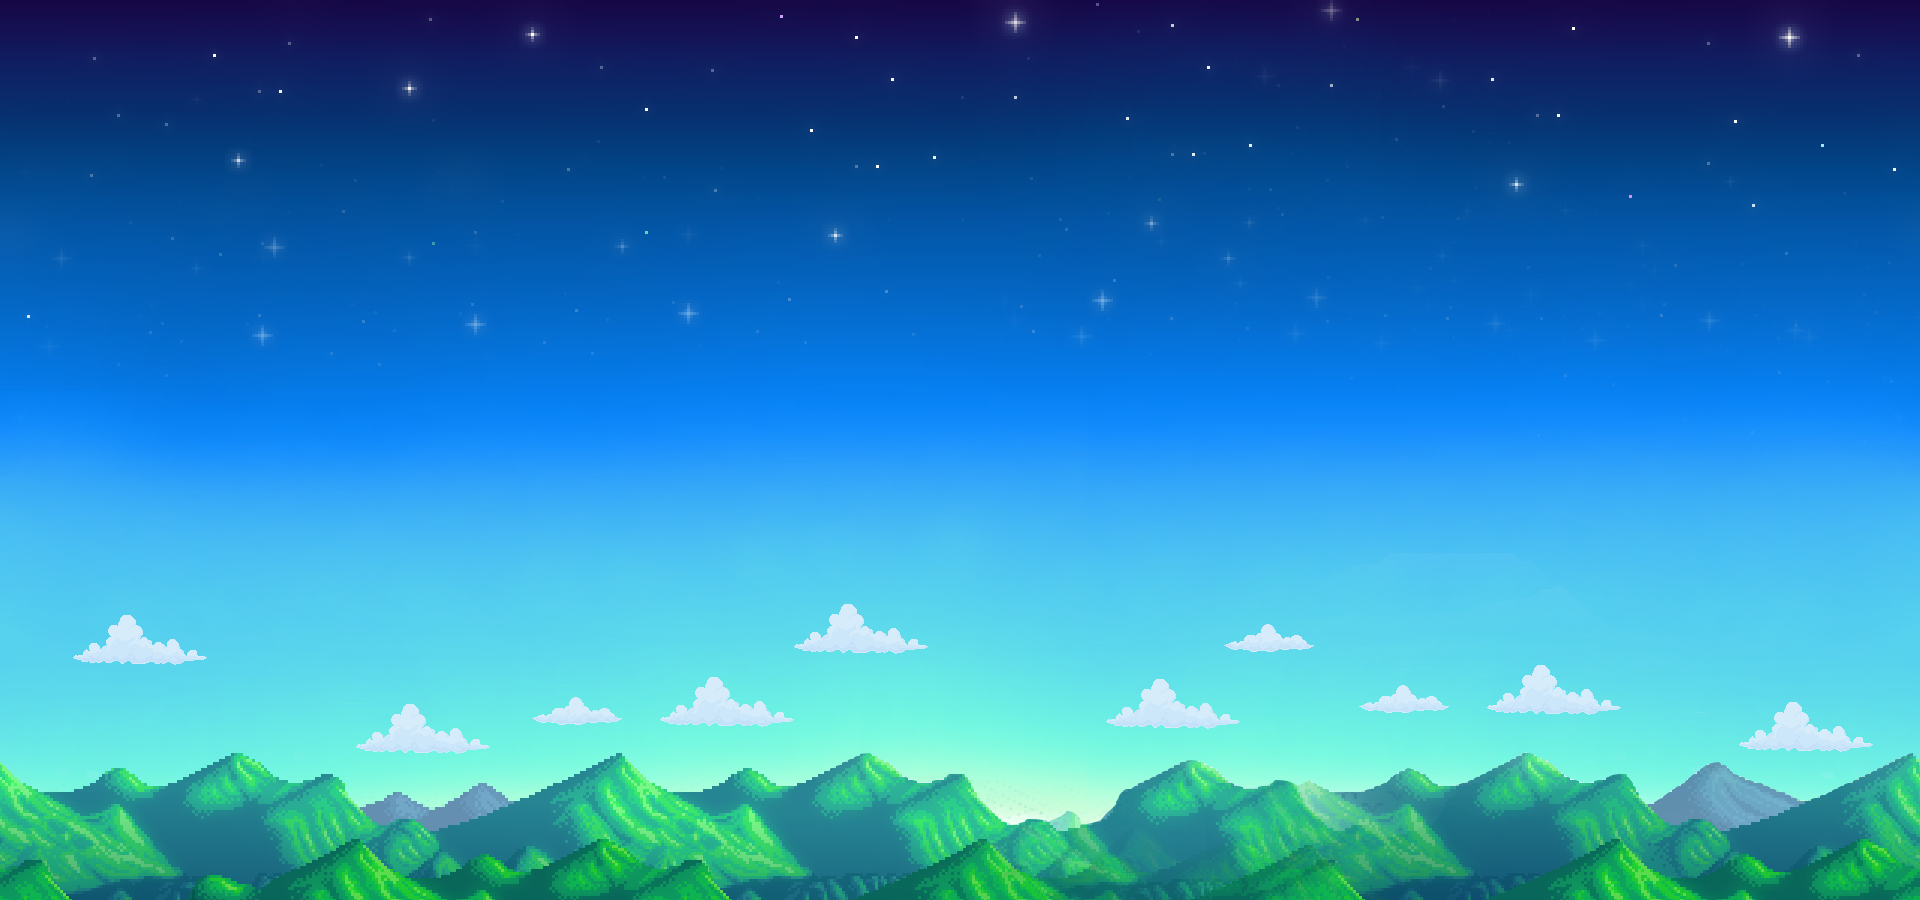
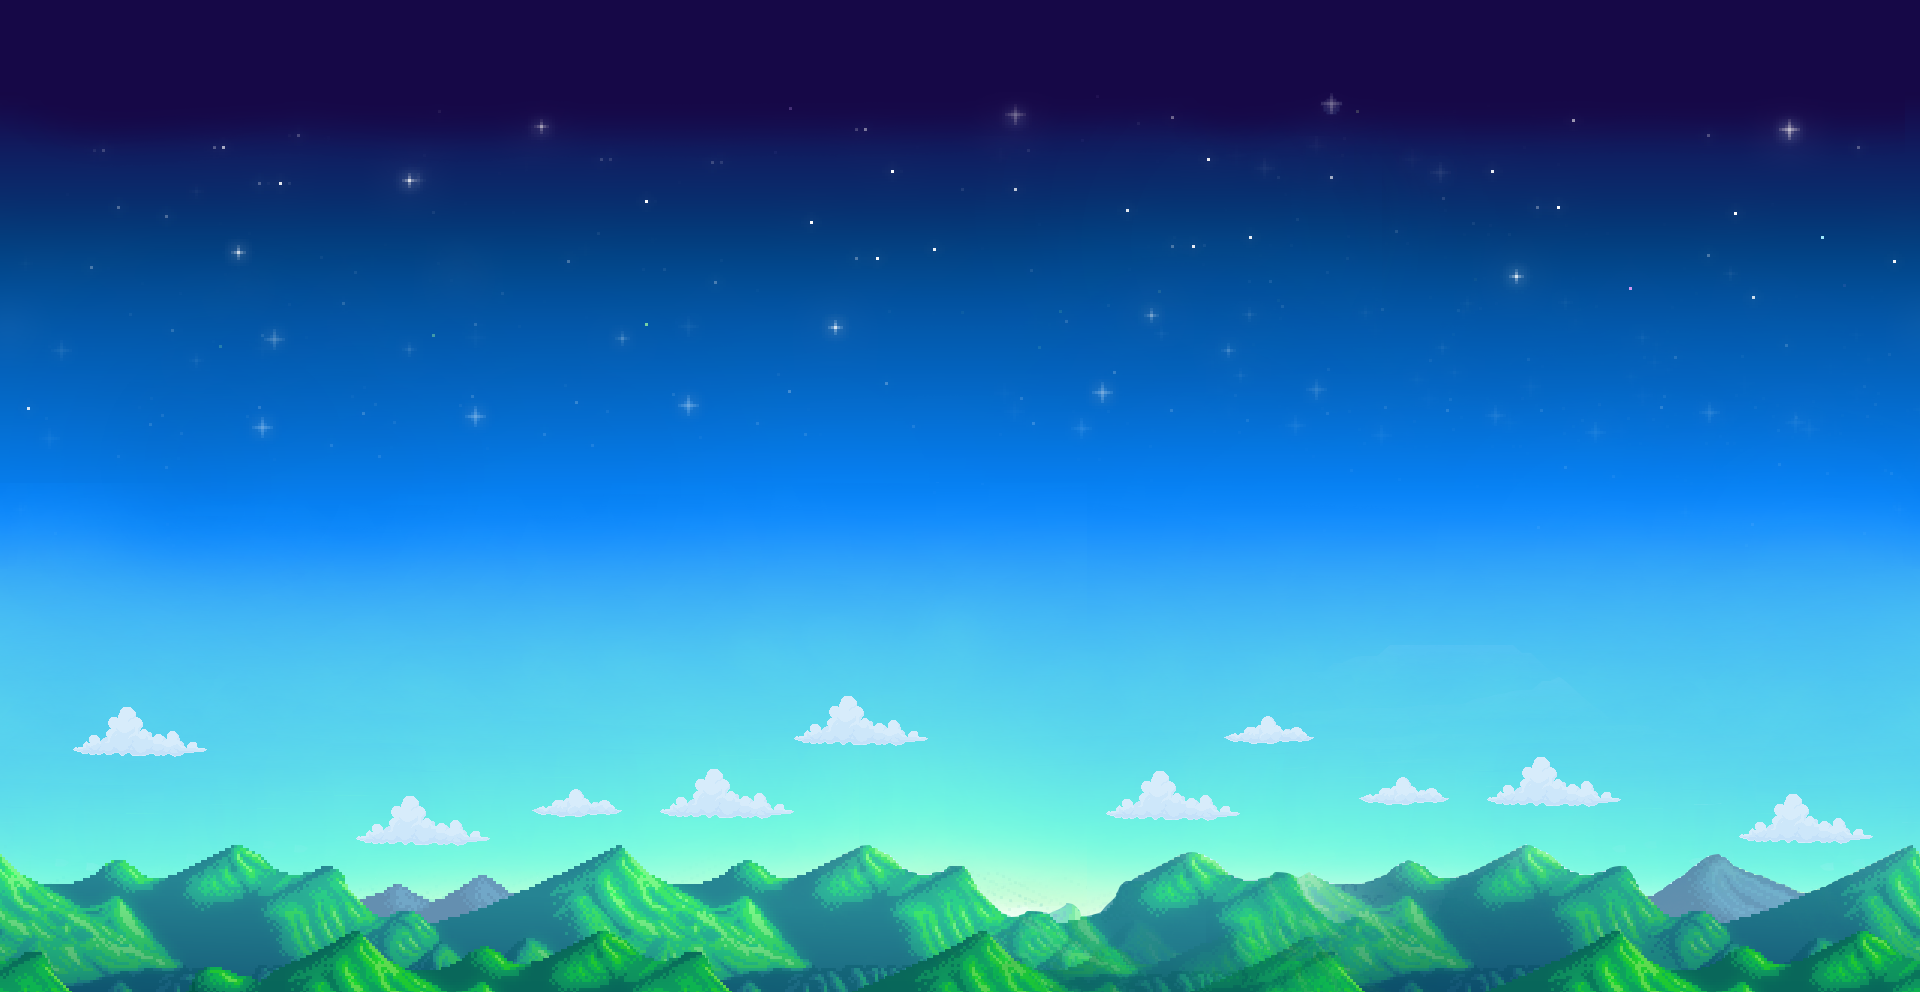
album started with issues that i'll fix in a few days

diff --git a/pages/sections/Hero/_hero.scss b/pages/sections/Hero/_hero.scss
@@ -1,6 +1,6 @@
 $backWidth: 512px; $backHeight: 432px;
 $bushesWidth: 508px; $bushesHeight: 79px;
-$groundWidth: 68px; $groundHeight: 22px;
+$groundWidth: 218px; $groundHeight: 22px;
 
 #cards {
     display: flex;
@@ -12,9 +12,9 @@ $groundWidth: 68px; $groundHeight: 22px;
     height: 87.5vh;
     background-image:
     url('https://github.com/Kageetai/mario-bfackground-parallax/blob/master/img/mario.gif?raw='),
-    url('../Hero/background/front0.png'),
-    url('../Hero/background/Country.png'),
-    url('../Hero/background/background.png');
+    url('../Hero/background/front1.png'),
+    url('../Hero/background/Country0.png'),
+    url('../Hero/background/background0.png');
     background-color: #000;
     background-repeat:
     no-repeat,
@@ -26,7 +26,7 @@ $groundWidth: 68px; $groundHeight: 22px;
     left 0px bottom 0px,
     left 0px bottom $groundHeight,
     left 0px bottom 0px;
-    animation: back 30s infinite linear;
+    animation: back 120s infinite linear;
     padding: 0px 9% 0px;
 
     @keyframes back {
@@ -56,12 +56,11 @@ $groundWidth: 68px; $groundHeight: 22px;
         width: 100vh;
     }
 
-
     &__top {
         display: flex;
 		justify-content: space-between;
 		align-items: center;
-        padding-top: 10%;
+        padding-top: 15%;
 
     &__nof {
         display: flex;
@@ -69,10 +68,80 @@ $groundWidth: 68px; $groundHeight: 22px;
     }
 
     &__album {
+        width: 800px;
+        height: 800px;
+        background-image: url('../Hero/background/book.png');
         position: absolute;
+        background-size: 100% 100%;
         top: 50%;
         left: 50%;
-        transform: translate(-50%, -50%)
+        transform: translate(-50%, -50%);
+        font-size: 20px;
+        text-align: center;
+        
+        &__page {
+            display: flex;
+            justify-content: center;
+            align-items: center;
+            width: 300px;
+            height: 600px;
+            background-size: 100% 100%;
+        }
+        &__page0 {
+            display: flex;
+            justify-content: center;
+            align-items: center;
+            background-image: url('../Hero/background/page.png');
+            width: 500px;
+            height: 600px;
+            background-size: 100% 100%;
+            top: 50%;
+            left: 50%;
+        }
+        &__page1 {
+            display: flex;
+            justify-content: center;
+            align-items: center;
+            background-image: url('../Hero/background/page.png');
+            width: 500px;
+            height: 600px;
+            background-size: 100% 100%;
+            top: 50%;
+            left: 50%;
+        }
+        &__page2 {
+            display: flex;
+            justify-content: center;
+            align-items: center;
+            background-image: url('../Hero/background/page.png');
+            width: 500px;
+            height: 600px;
+            background-size: 100% 100%;
+            top: 50%;
+            left: 50%;
+        }
+        &__page3 {
+            display: flex;
+            justify-content: center;
+            align-items: center;
+            background-image: url('../Hero/background/page.png');
+            width: 500px;
+            height: 600px;
+            background-size: 100% 100%;
+            top: 50%;
+            left: 50%;
+        }
+        &__page4 {
+            display: flex;
+            justify-content: center;
+            align-items: center;
+            background-image: url('../Hero/background/page.png');
+            width: 500px;
+            height: 600px;
+            background-size: 100% 100%;
+            top: 50%;
+            left: 50%;
+        }
     }
 
         .swiper {

diff --git a/pages/sections/Hero/Hero.jsx b/pages/sections/Hero/Hero.jsx
@@ -1,5 +1,7 @@
 import React from 'react'
 import Image from 'next/image'
+import HTMLFlipBook from 'react-pageflip'
+import Link from 'next/link'
 
 // Import Swiper React components
 import { Swiper, SwiperSlide } from 'swiper/react'
@@ -25,14 +27,50 @@ function Hero () {
             height={380}
           />
         </div>
-        <div className='hero__top__album'>
-          <Image
-            src='/../public/Book/book.png'
-            alt=''
-            width={800}
-            height={800}
-          />
-        </div>
+        <HTMLFlipBook width={500} height={500} className='hero__top__album'>
+          <div className='hero__top__album__page'>
+            <h2>BIENVENIDOS!</h2>
+            <div className='navbar__icon__coin'>
+              <Image
+                src='/../public/nof-icon/logo-coin.png'
+                alt='/'
+                width={142}
+                height={139}
+              />
+            </div>
+            <p>al primer juego collect-to-earn <br />
+              <br />del metaverso <br />
+              <br />donde los más fanáticos <br />
+              <br />obtienen recompensas<br />
+              <br />por crear su propia <br />
+              <br />colección de álbumes NFT.
+            </p>
+          </div>
+          <div className='hero__top__album__page0' data-density='hard'>
+            <p>El principal objetivo de NOF <br />
+              <br />es convertirse en el mayor<br />
+              <br />punto de encuentro<br />
+              <br />de los grupos de fans<br />
+              <br />y revivir la afición<br />
+              <br />por coleccionar figutitas.
+            </p>
+            <Link
+              href='https://discord.gg/4Bvp5bVmCz'
+              target='_blank'
+              rel='noreferrer'
+              spy='true' smooth='true' offset={-80} duration={500}
+            >
+              <button className='navbar__ul__li__whitepaper'>
+                Whitepaper
+              </button>
+            </Link>
+          </div>
+          <div className='hero__top__album__page1' data-density='hard'>Page 3</div>
+          <div className='hero__top__album__page2' data-density='hard'>Page 4</div>
+          <div className='hero__top__album__page3' data-density='hard'>Page 5</div>
+          <div className='hero__top__album__page4' data-density='hard'>Page 6</div>
+          <div className='hero__top__album__page' data-density='hard'>Page 7</div>
+        </HTMLFlipBook>
         <div className='hero__top__swiper'>
           <>
             <Swiper

diff --git a/components/Navbar/_navbar.scss b/components/Navbar/_navbar.scss
@@ -86,6 +86,7 @@ header {
 					inset 4px 0px 1px 1px lightgray;
 				margin-right: 33px;
 				&:hover {
+					color: #fff;
 					cursor: pointer;
 					background: #097F40;
 				}
@@ -138,6 +139,7 @@ header {
 					inset 4px 0px 1px 1px lightgray;
 				margin-right: 33px;
 				&:hover {
+					color: #fff;
 					cursor: pointer;
 					background: #F1864B;
 				}
@@ -185,6 +187,7 @@ header {
 					inset 4px 0px 1px 1px lightgray;
 				margin-right: 33px;
 				&:hover {
+					color: #fff;
 					cursor: pointer;
 					background: #87181B;
 				}

diff --git a/components/Album/Album.jsx b/components/Album/Album.jsx
@@ -1,0 +1,15 @@
+import React from 'react'
+import HTMLFlipBook from 'react-pageflip'
+
+function Album () {
+  return (
+    <HTMLFlipBook width={300} height={500}>
+      <div className='demoPage'>Page 1</div>
+      <div className='demoPage'>Page 2</div>
+      <div className='demoPage'>Page 3</div>
+      <div className='demoPage'>Page 4</div>
+    </HTMLFlipBook>
+  )
+}
+
+export default Album

diff --git a/components/Navbar/Navbar.jsx b/components/Navbar/Navbar.jsx
@@ -10,7 +10,7 @@ function Navbar () {
       <div className='navbar'>
         <div className='navbar__icon'>
           <Link to='Hero' spy='true' smooth='true' offset={-100} duration={500}>
-            <div className='navbar__icon__nof'>
+            <div className='navbar__icon__coin'>
               <Image
                 src='/../public/nof-icon/logo-coin.png'
                 alt='/'

diff --git a/components/Album/Index.jsx b/components/Album/Index.jsx
@@ -1,0 +1,3 @@
+import Album from './Album'
+
+export default Album
